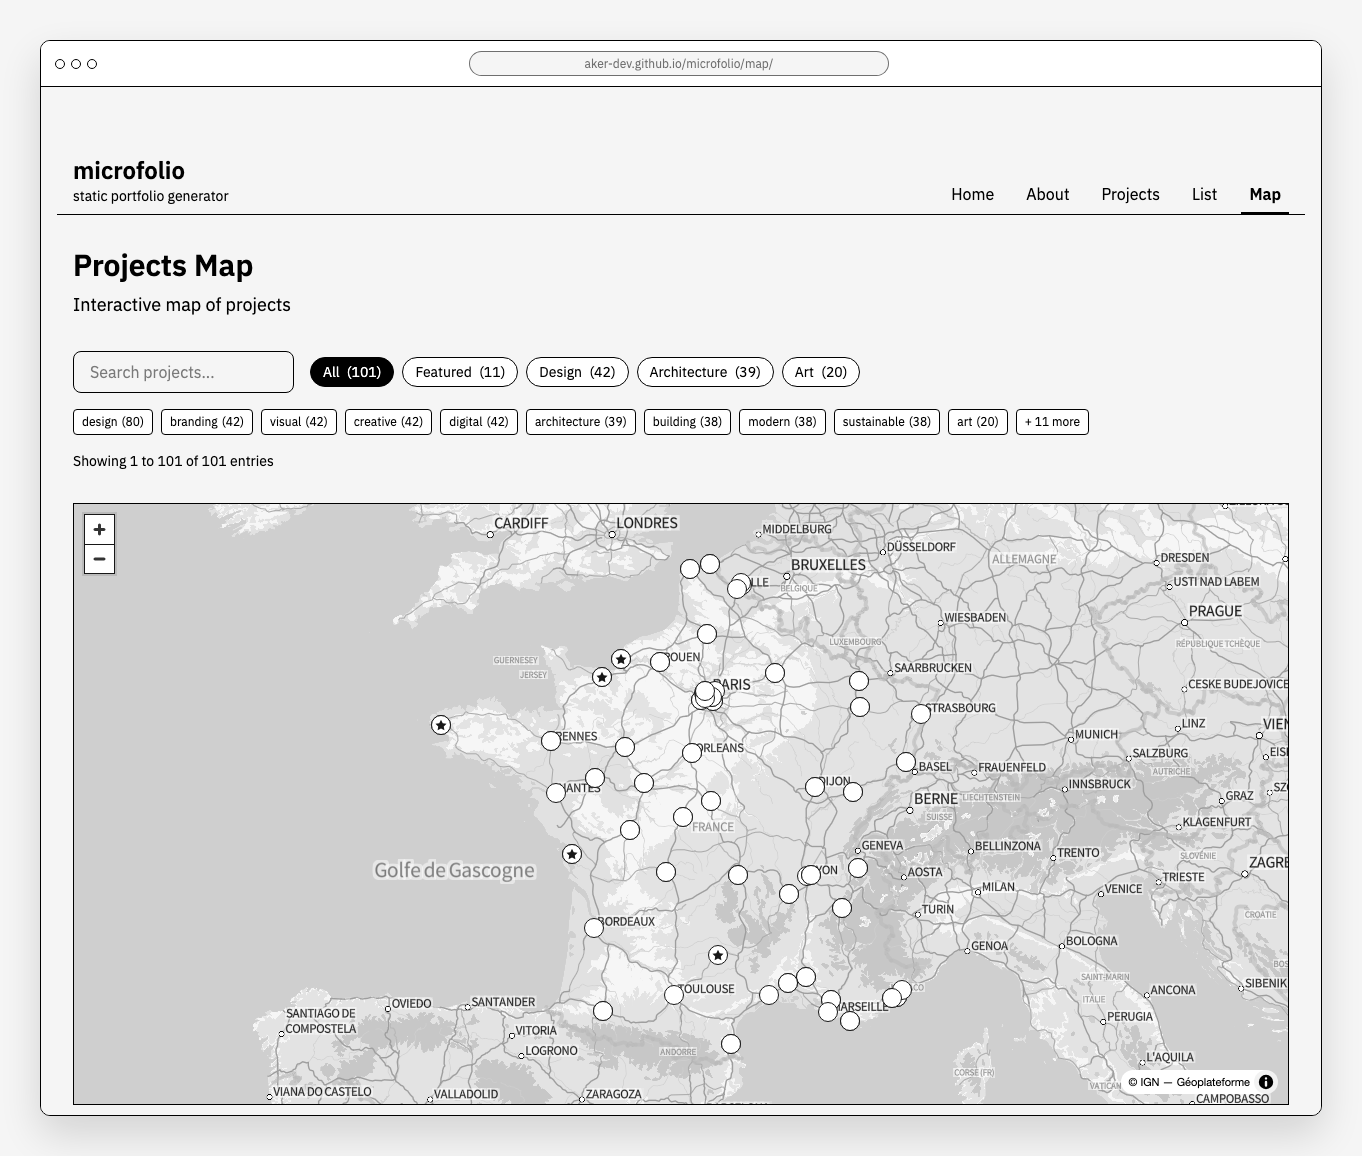
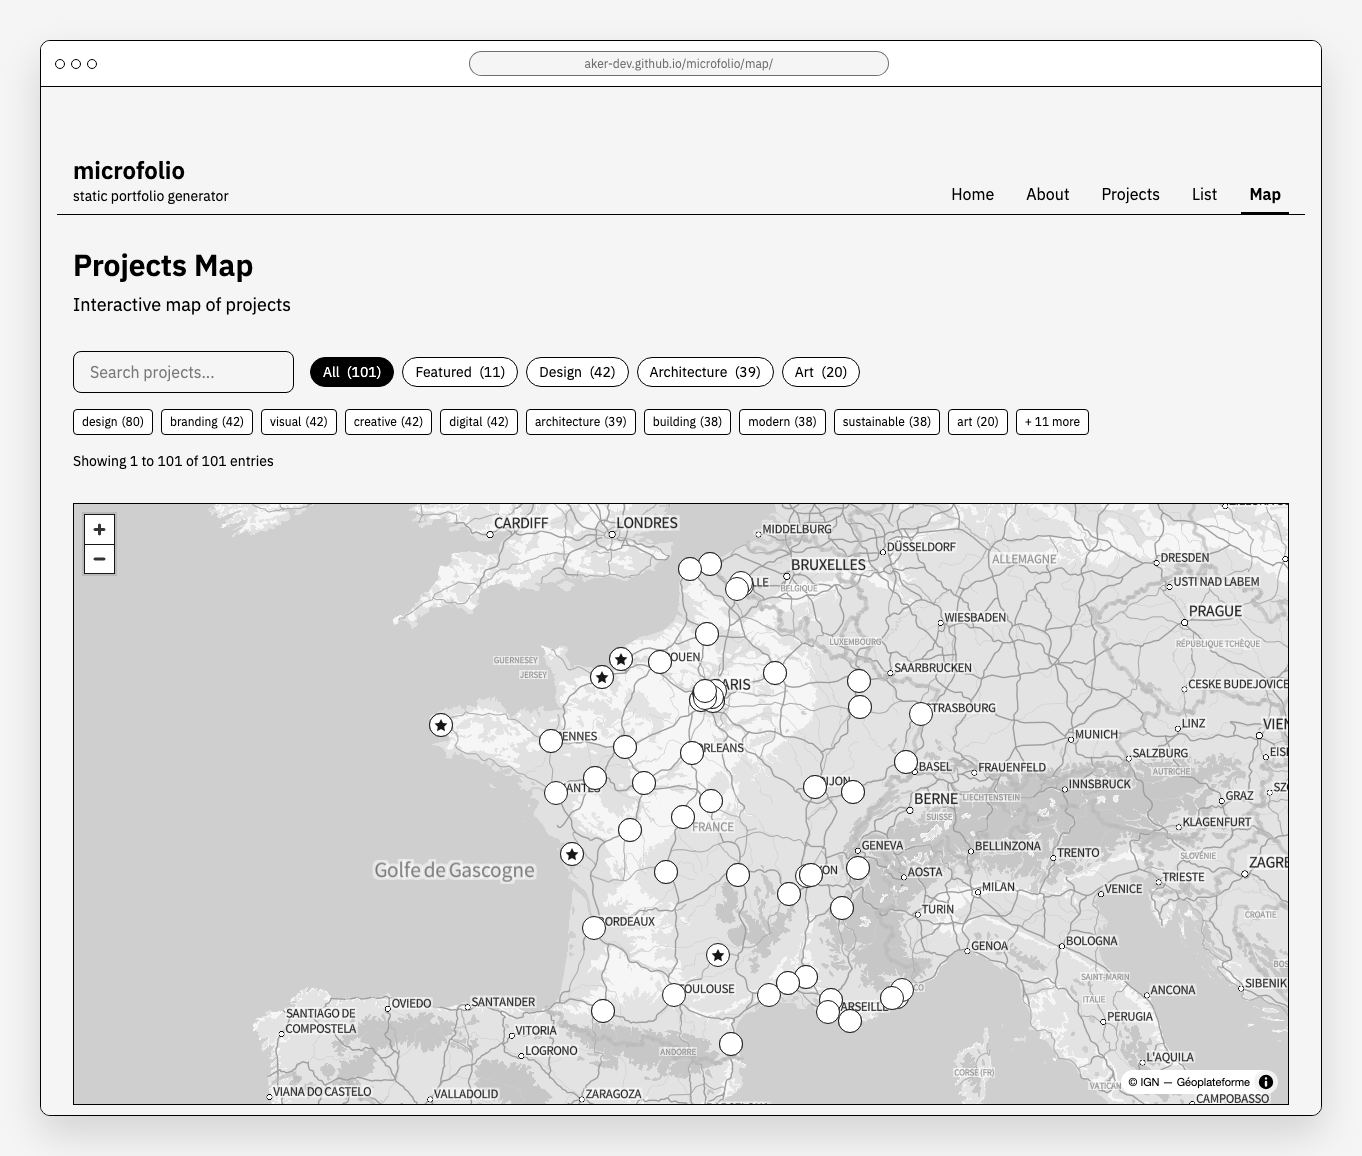
style: enlarge the map markers
The discs go from 20px to 24px and the star inside them from 12px to
14px. Picked by rendering 24, 28 and 32 and comparing: at 28 the discs
start dominating the map and eat the IGN labels, swallowing half of
Marseille and Nantes. 24 keeps the star plainly legible with the place
names still readable around it.

diff --git a/src/app.css b/src/app.css
@@ -69,8 +69,8 @@
 	display: flex;
 	align-items: center;
 	justify-content: center;
-	width: 1.25rem;
-	height: 1.25rem;
+	width: 1.5rem;
+	height: 1.5rem;
 	padding: 0;
 	border: 1px solid #171717;
 	border-radius: 9999px;
@@ -84,13 +84,13 @@
 	transform: scale(1.4);
 }
 
-/* Featured projects carry the star, exactly as the cards and the list do, rather
-   than changing colour: every marker stays white. Sized here because the raw SVG
-   arrives with dimensions of its own, and coloured through `color` because its
-   path is drawn in currentColor. */
+/* Featured projects carry the star inside the disc, exactly as the cards and the
+   list mark them, rather than changing colour: every marker stays white. Sized
+   here because the raw SVG arrives carrying dimensions of its own, and coloured
+   through `color` because its path is drawn in currentColor. */
 .ak-marker--featured svg {
-	width: 0.75rem;
-	height: 0.75rem;
+	width: 0.875rem;
+	height: 0.875rem;
 	color: #171717;
 	pointer-events: none;
 }
